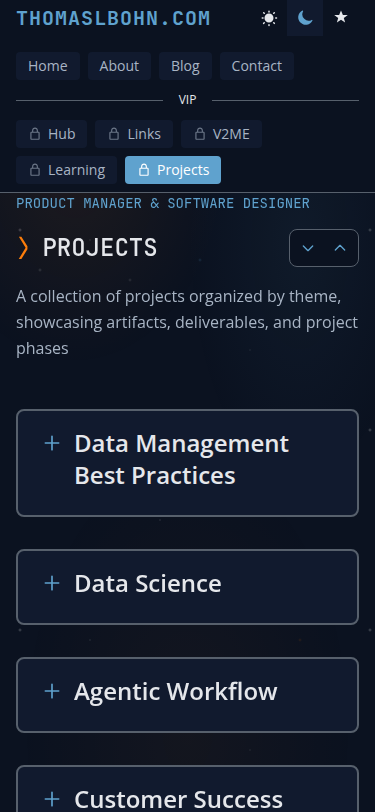
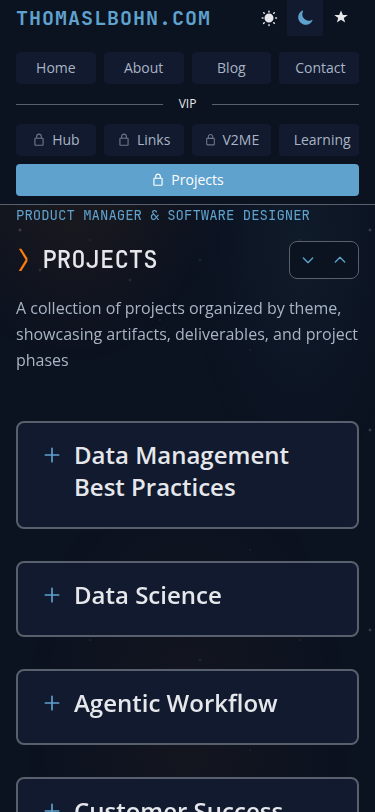
feat: Center and spread mobile navigation links
- Center navigation links on mobile with justify-center
- Make nav buttons fill width with flex-1 and min-width
- Center text within each nav button
- Slightly increase padding for better touch targets

diff --git a/components/Header.tsx b/components/Header.tsx
@@ -226,7 +226,7 @@ export function Header() {
         <div className="md:hidden mt-4 pb-2">
           <div className="flex flex-col gap-3">
             {/* Public navigation items */}
-            <div className="flex flex-wrap gap-2">
+            <div className="flex flex-wrap justify-center gap-2">
               {publicNavItems.map((item) => {
                 const isActive = pathname === item.href || 
                   (item.href !== '/' && pathname?.startsWith(item.href))
@@ -234,7 +234,7 @@ export function Header() {
                   <Link
                     key={item.href}
                     href={item.href}
-                    className={`px-3 py-1 rounded text-sm transition-colors ${
+                    className={`px-4 py-1.5 rounded text-sm transition-colors flex-1 min-w-[70px] text-center ${
                       isActive
                         ? 'bg-accent text-white'
                         : 'bg-bg-secondary text-text-secondary hover:bg-accent-orange hover:text-white'
@@ -254,7 +254,7 @@ export function Header() {
             </div>
             
             {/* VIP navigation items */}
-            <div className="flex flex-wrap gap-2">
+            <div className="flex flex-wrap justify-center gap-2">
               {vipNavItems.map((item) => {
                 const isActive = pathname === item.href || 
                   (item.href !== '/' && pathname?.startsWith(item.href))
@@ -262,7 +262,7 @@ export function Header() {
                   <Link
                     key={item.href}
                     href={item.href}
-                    className={`group relative px-3 py-1 rounded text-sm transition-colors flex items-center gap-1.5 ${
+                    className={`group relative px-3 py-1.5 rounded text-sm transition-colors flex items-center justify-center gap-1.5 flex-1 min-w-[70px] ${
                       isActive
                         ? 'bg-accent text-white'
                         : 'bg-bg-secondary text-text-secondary hover:bg-accent-orange hover:text-white'
